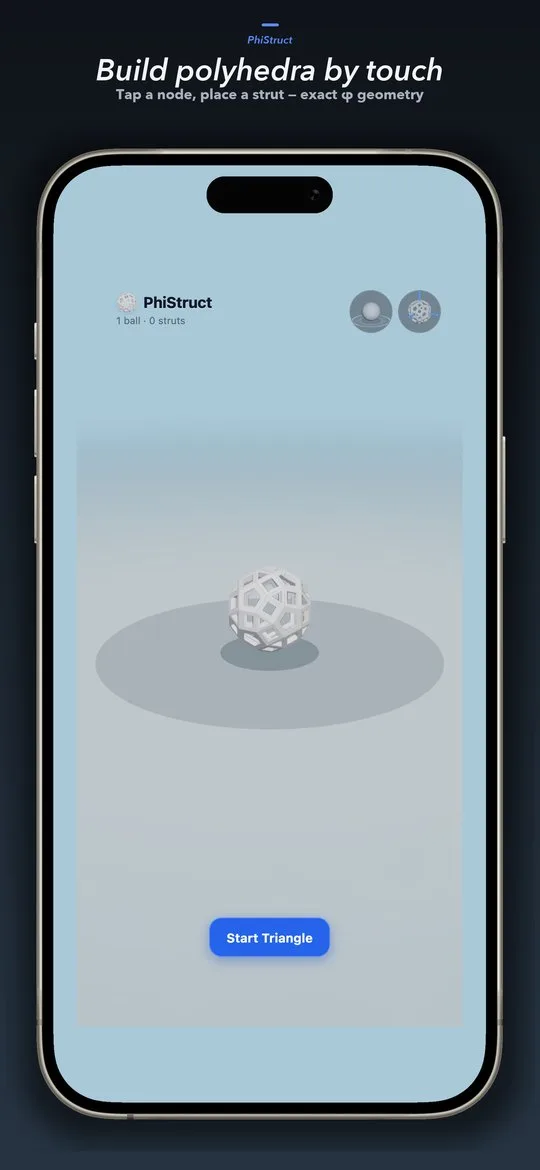
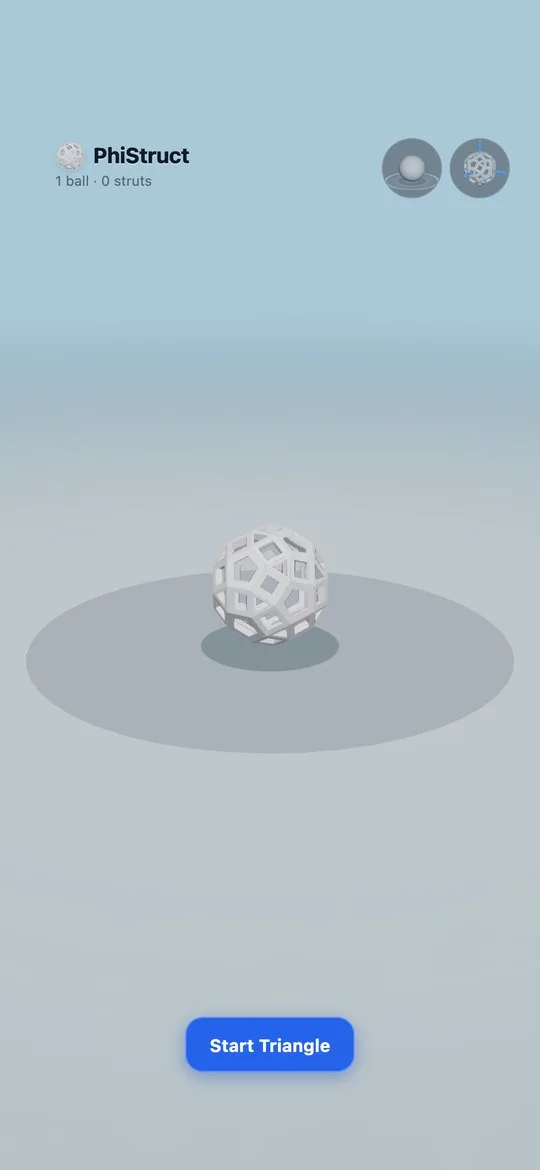
Use raw app screenshots on light landing (drop dark ASC plates)

diff --git a/style.css b/style.css
@@ -239,11 +239,9 @@ a { color: var(--accent); }
   width: min(300px, 62vw);
   border-radius: 34px;
   overflow: hidden;
-  border: 1px solid rgba(21, 32, 43, 0.16);
+  border: 1px solid rgba(21, 32, 43, 0.14);
   background: var(--stage);
-  box-shadow:
-    0 28px 60px rgba(21, 32, 43, 0.18),
-    0 0 0 10px rgba(255, 255, 255, 0.35);
+  box-shadow: 0 28px 60px rgba(21, 32, 43, 0.16);
   transform: rotate(-3.5deg);
   animation: phone-settle 0.9s cubic-bezier(0.22, 1, 0.36, 1) both;
 }

diff --git a/privacy.html b/privacy.html
@@ -12,7 +12,7 @@
 <link rel="preconnect" href="https://fonts.googleapis.com" />
 <link rel="preconnect" href="https://fonts.gstatic.com" crossorigin />
 <link href="https://fonts.googleapis.com/css2?family=Sora:wght@600;700&family=Source+Sans+3:wght@400;600;700&display=swap" rel="stylesheet" />
-<link rel="stylesheet" href="style.css?v=5" />
+<link rel="stylesheet" href="style.css?v=6" />
 </head>
 <body>
 <div class="wrap">

diff --git a/support.html b/support.html
@@ -12,7 +12,7 @@
 <link rel="preconnect" href="https://fonts.googleapis.com" />
 <link rel="preconnect" href="https://fonts.gstatic.com" crossorigin />
 <link href="https://fonts.googleapis.com/css2?family=Sora:wght@600;700&family=Source+Sans+3:wght@400;600;700&display=swap" rel="stylesheet" />
-<link rel="stylesheet" href="style.css?v=5" />
+<link rel="stylesheet" href="style.css?v=6" />
 </head>
 <body>
 <div class="wrap">

diff --git a/index.html b/index.html
@@ -30,7 +30,7 @@
 <meta name="twitter:image" content="https://sirouni.github.io/phistruct-site/og-image.jpg" />
 
 <link rel="preload" as="image" href="screenshots-webp/03-rainbow.webp" imagesrcset="screenshots-webp/03-rainbow.webp" type="image/webp" />
-<link rel="stylesheet" href="style.css?v=5" />
+<link rel="stylesheet" href="style.css?v=6" />
 
 <script type="application/ld+json">
 {
